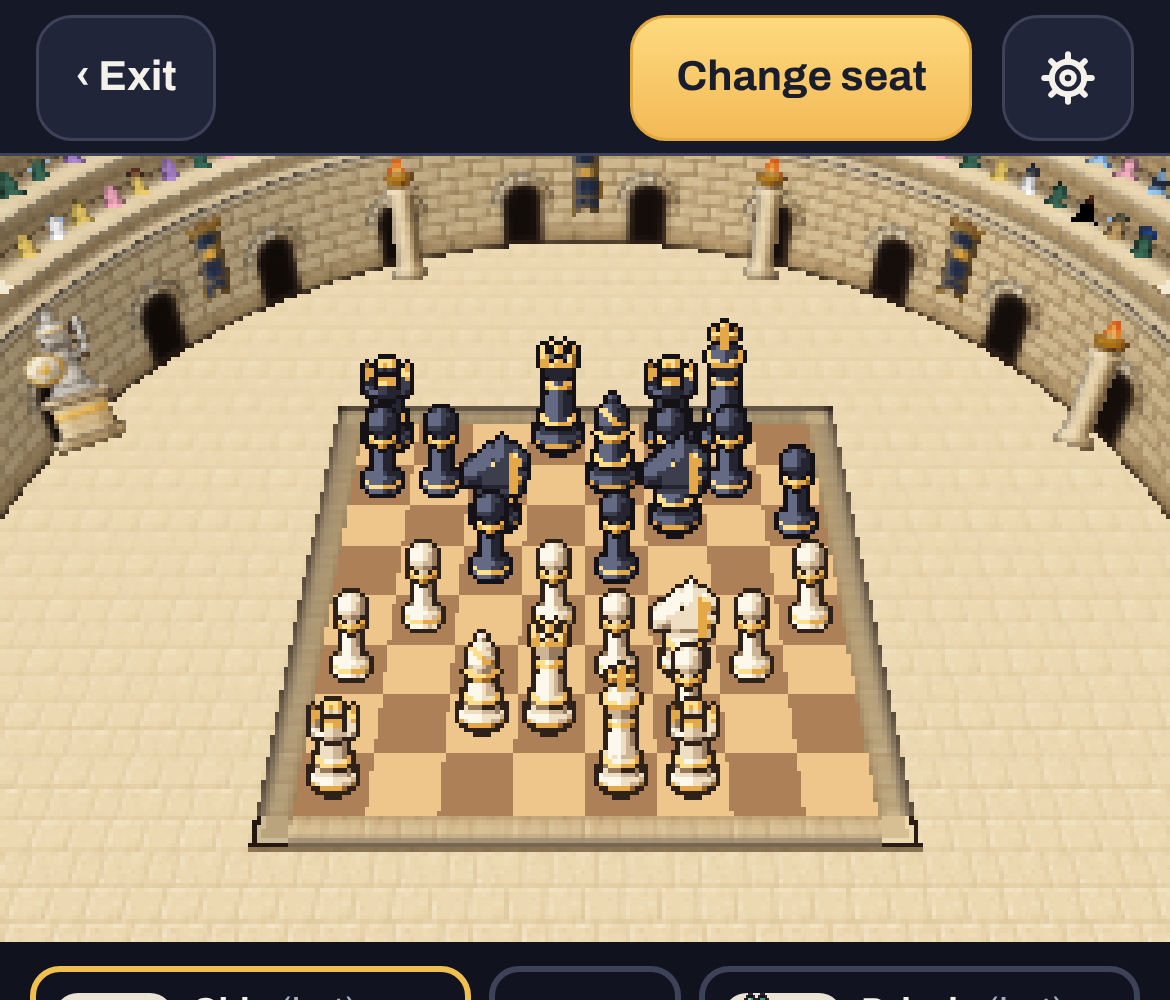
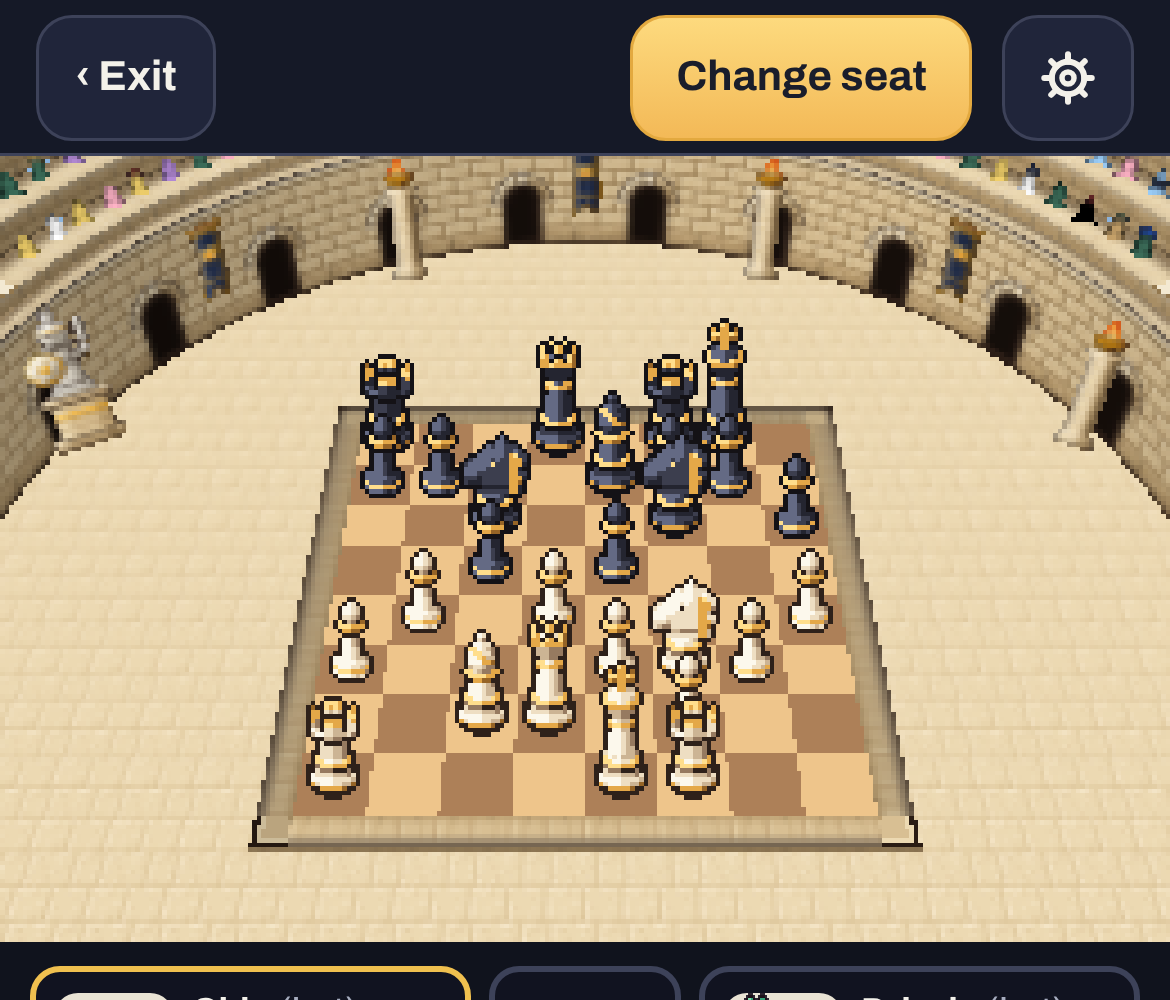
GBA pieces round 6: Eric's pick, the first slender pawn
Claude-Session: https://claude.ai/code/session_01JuCWRvpifUHBYDWXqYcDtk

diff --git a/scripts/boss-art/out/arena-pieces-gba/pieces-3d.ts b/scripts/boss-art/out/arena-pieces-gba/pieces-3d.ts
@@ -7,7 +7,7 @@
  *   foot (the middle of the square the piece stands on) at the origin, **+z the piece's front** (toward the viewer), +x its
  *   right as you face it. The knight's head looks toward -x (to the viewer's left); mirror x for the other way.
  * - **A model** is `inside(x, y, z)`: the material at that point (body, gold, groove, eye) or null outside. Heights, foot to
- *   top: pawn 19, rook 19, knight 22, bishop 23, queen 25, king 30.
+ *   top: pawn 17, rook 19, knight 22, bishop 23, queen 25, king 30.
  * - **`drawPiece(kind, side, pitch)`** draws one piece as seen from above at `pitch` radians (0 level, 0.52 the stands behind
  *   White as mocked up) facing its front, one pixel a unit: palette keys (`PALETTE`), null empty, the foot's pixel (ax, ay).
  *   Flat cel bands lit from the top left and front, a 1-pixel outline round it and where a nearer part covers a farther one.
@@ -222,7 +222,7 @@ function turnedAbove(profile: (y: number) => [number, Mat] | null, extra?: (x: n
 /**
  * The pawn (Eric, Nov 2: "yours look like a pyramid, mine have the normal slender taller look", his reference's pawns): its
  * own low, flat base (a step, a gold band, a sloped top), a slim waisted stem, a gold collar, a short neck and the round
- * head (19 tall).
+ * head (17 tall; Eric's pick of three, Nov 2: "that's the best one").
  */
 function pawnModel(): Model {
   const profile = (y: number): [number, Mat] | null => {
@@ -230,15 +230,15 @@ function pawnModel(): Model {
     if (y < 2) return [4.3, "gold"];
     if (y < 3.3) return [3.9 - ((y - 2) / 1.3) * 0.7, "body"];
     if (y < 3.8) return [2.6, "groove"];
-    if (y < 11.5) { const s = (y - 3.8) / 7.7; return [1.5 + 0.7 * (1 - s) ** 2, "body"]; }
-    if (y < 12.4) return [3, "gold"];
-    if (y < 13.4) return [1.5, "body"];
+    if (y < 11) { const s = (y - 3.8) / 7.2; return [1.35 + 1.15 * (1 - s) ** 2, "body"]; }
+    if (y < 11.9) return [2.8, "gold"];
+    if (y < 12.4) return [1.3, "body"];
     return null;
   };
   return {
     inside(x, y, z) {
       if (y < 0) return null;
-      if (y >= 12.4 && Math.hypot(x, y - 16, z) <= 3.05) return "body";
+      if (y >= 12.4 && Math.hypot(x, y - 14.55, z) <= 2.4) return "body";
       const pr = profile(y);
       return pr && Math.hypot(x, z) <= pr[0] ? pr[1] : null;
     },

diff --git a/scripts/boss-art/out/arena-pieces-gba/report.md b/scripts/boss-art/out/arena-pieces-gba/report.md
@@ -79,3 +79,10 @@ taller look." The pawn no longer uses the shared tall base: its own low, flat ba
 slim, nearly straight stem, a gold collar, a short neck and a bigger round head lifted clear of the collar; 19 tall (was
 16). New: `mockup-3d-mid-computer.png` and `mockup-3d-mid-phone.png`, a middle game like the reference so the pawns stand
 in the open; `compare-3d-reference.png` now shows that one beside the reference.
+
+## Round 6: Eric's pawn (Nov 2)
+
+Eric: "Use the pawn you did right after I asked for it to be thinner, that's the best one." Back to round 5's first try:
+its own low, flat base with a gold band, a slim waisted stem (wider at the foot), a gold collar, a short neck and a round
+head; 17 tall. (The later straighter stem and bigger head, 19 tall, are dropped.) The sheet, mockups and comparison are
+redrawn with it.
